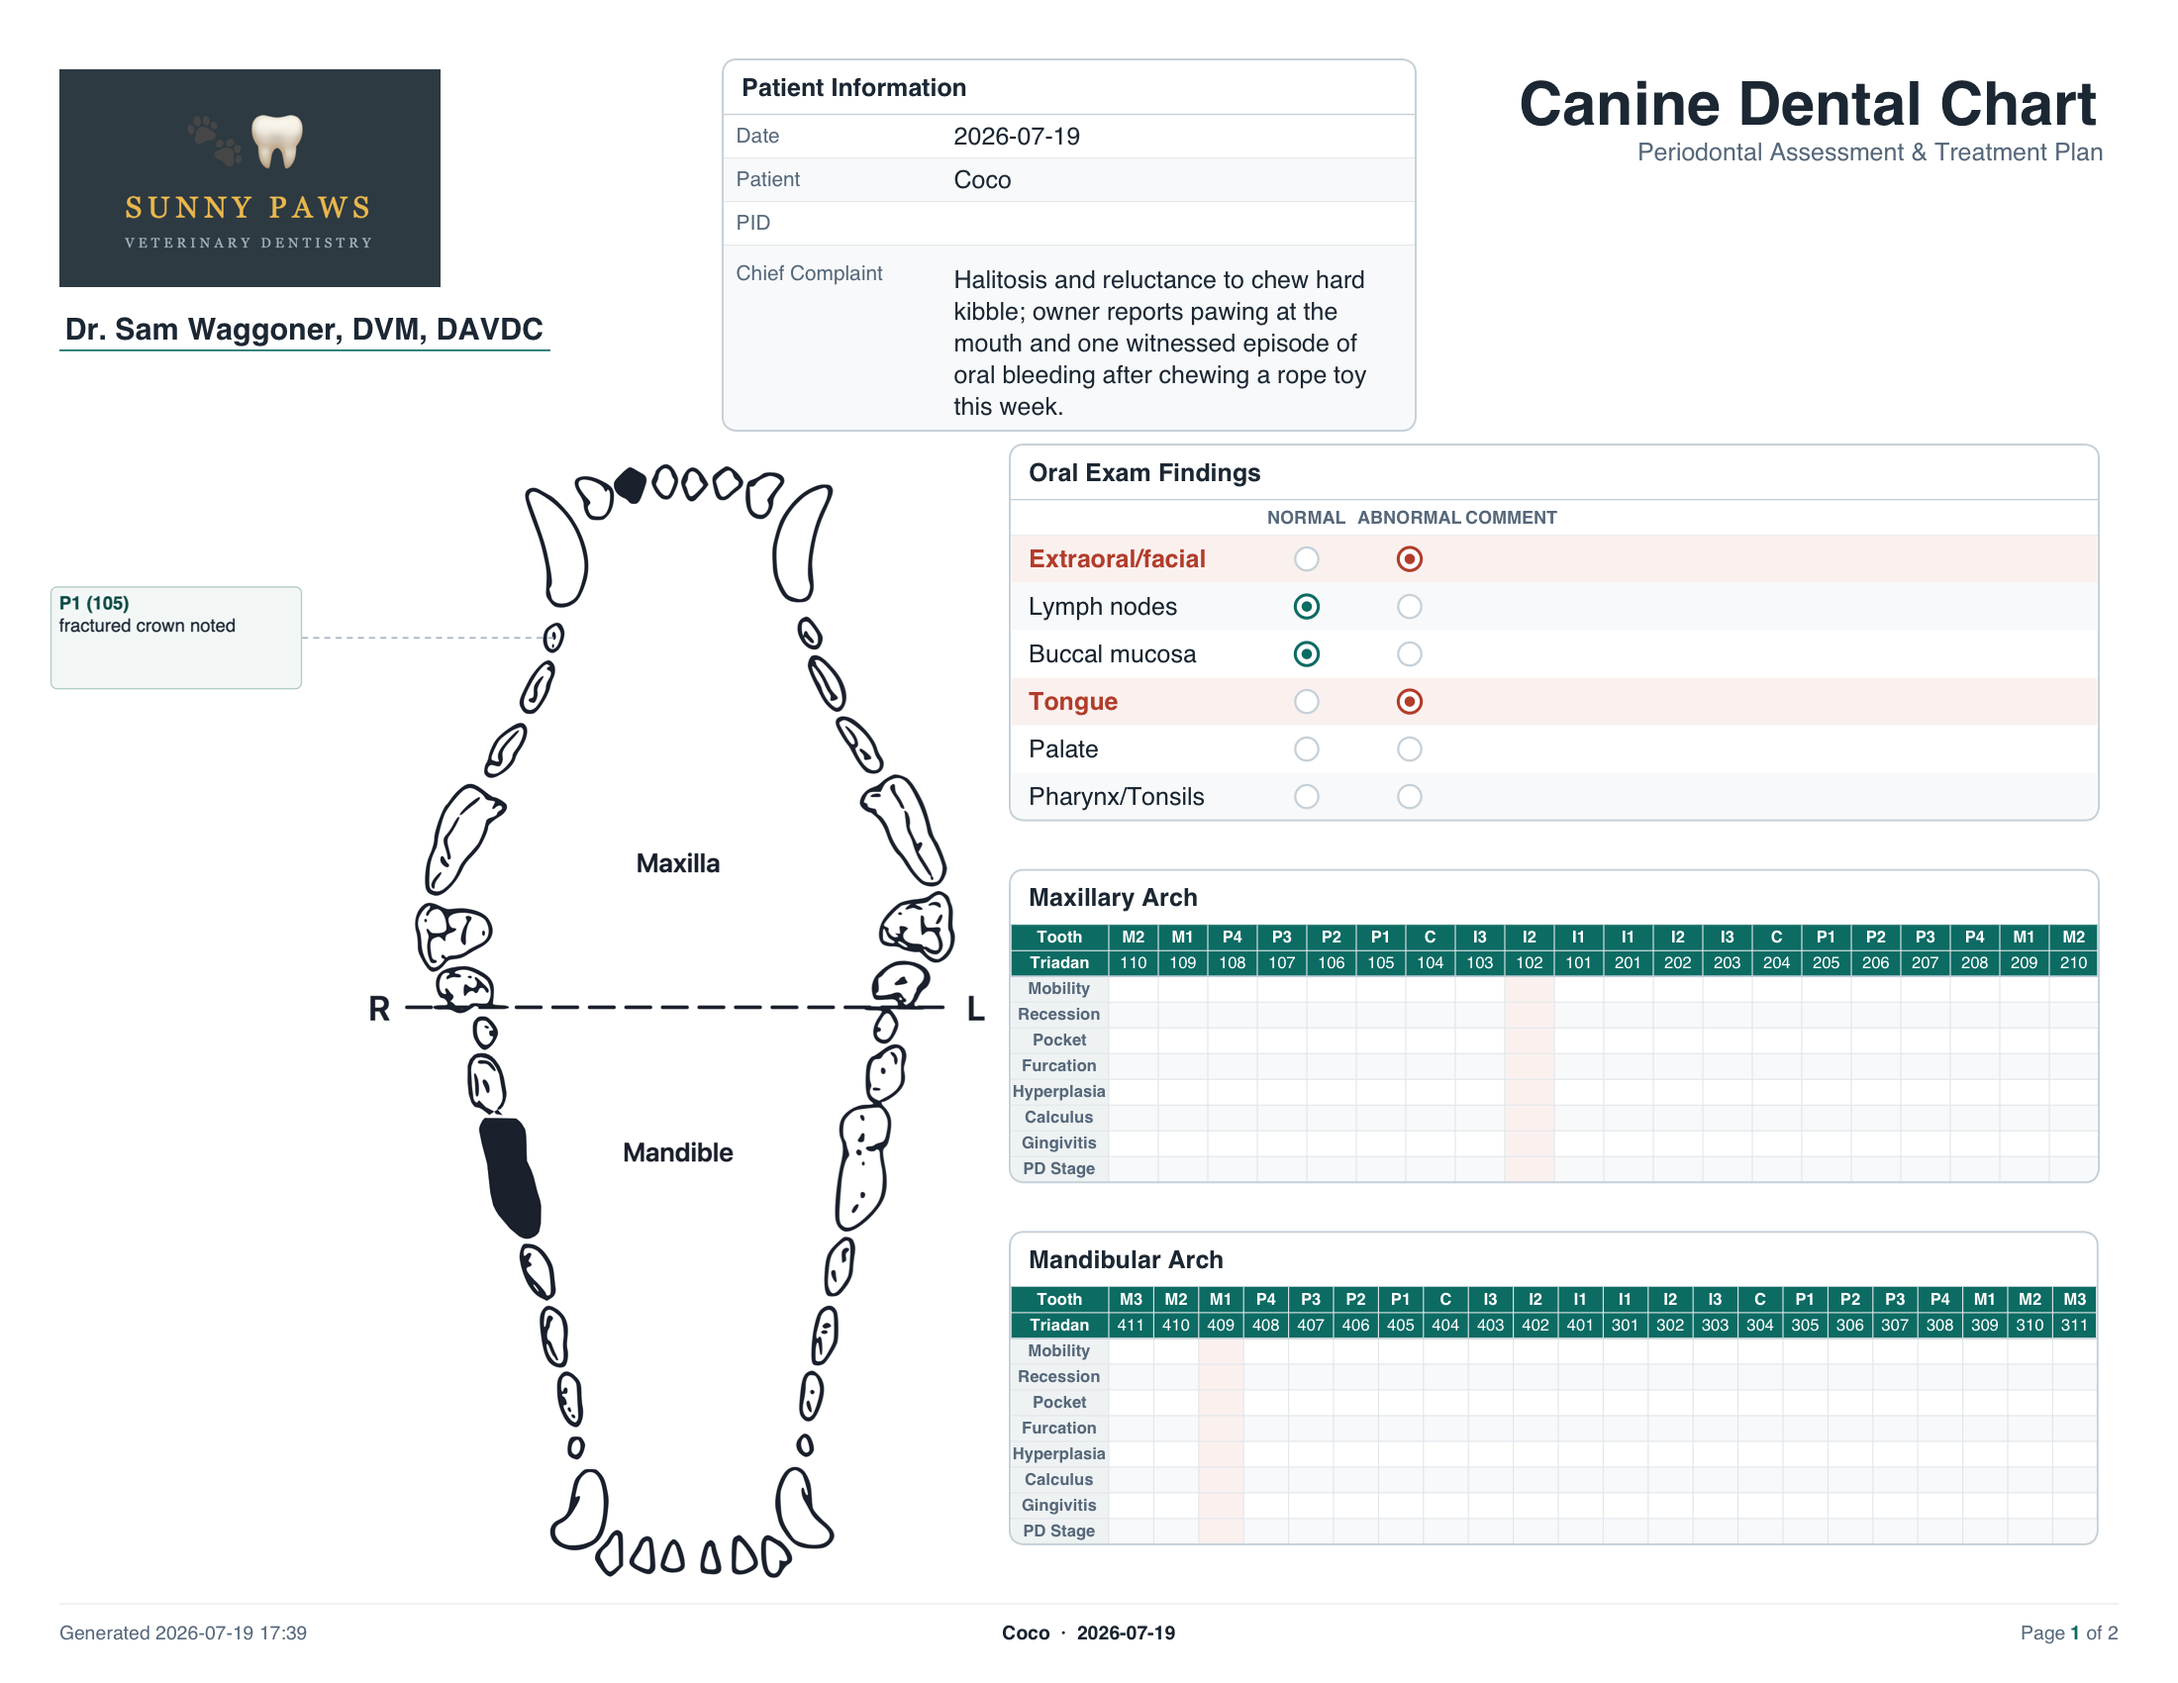
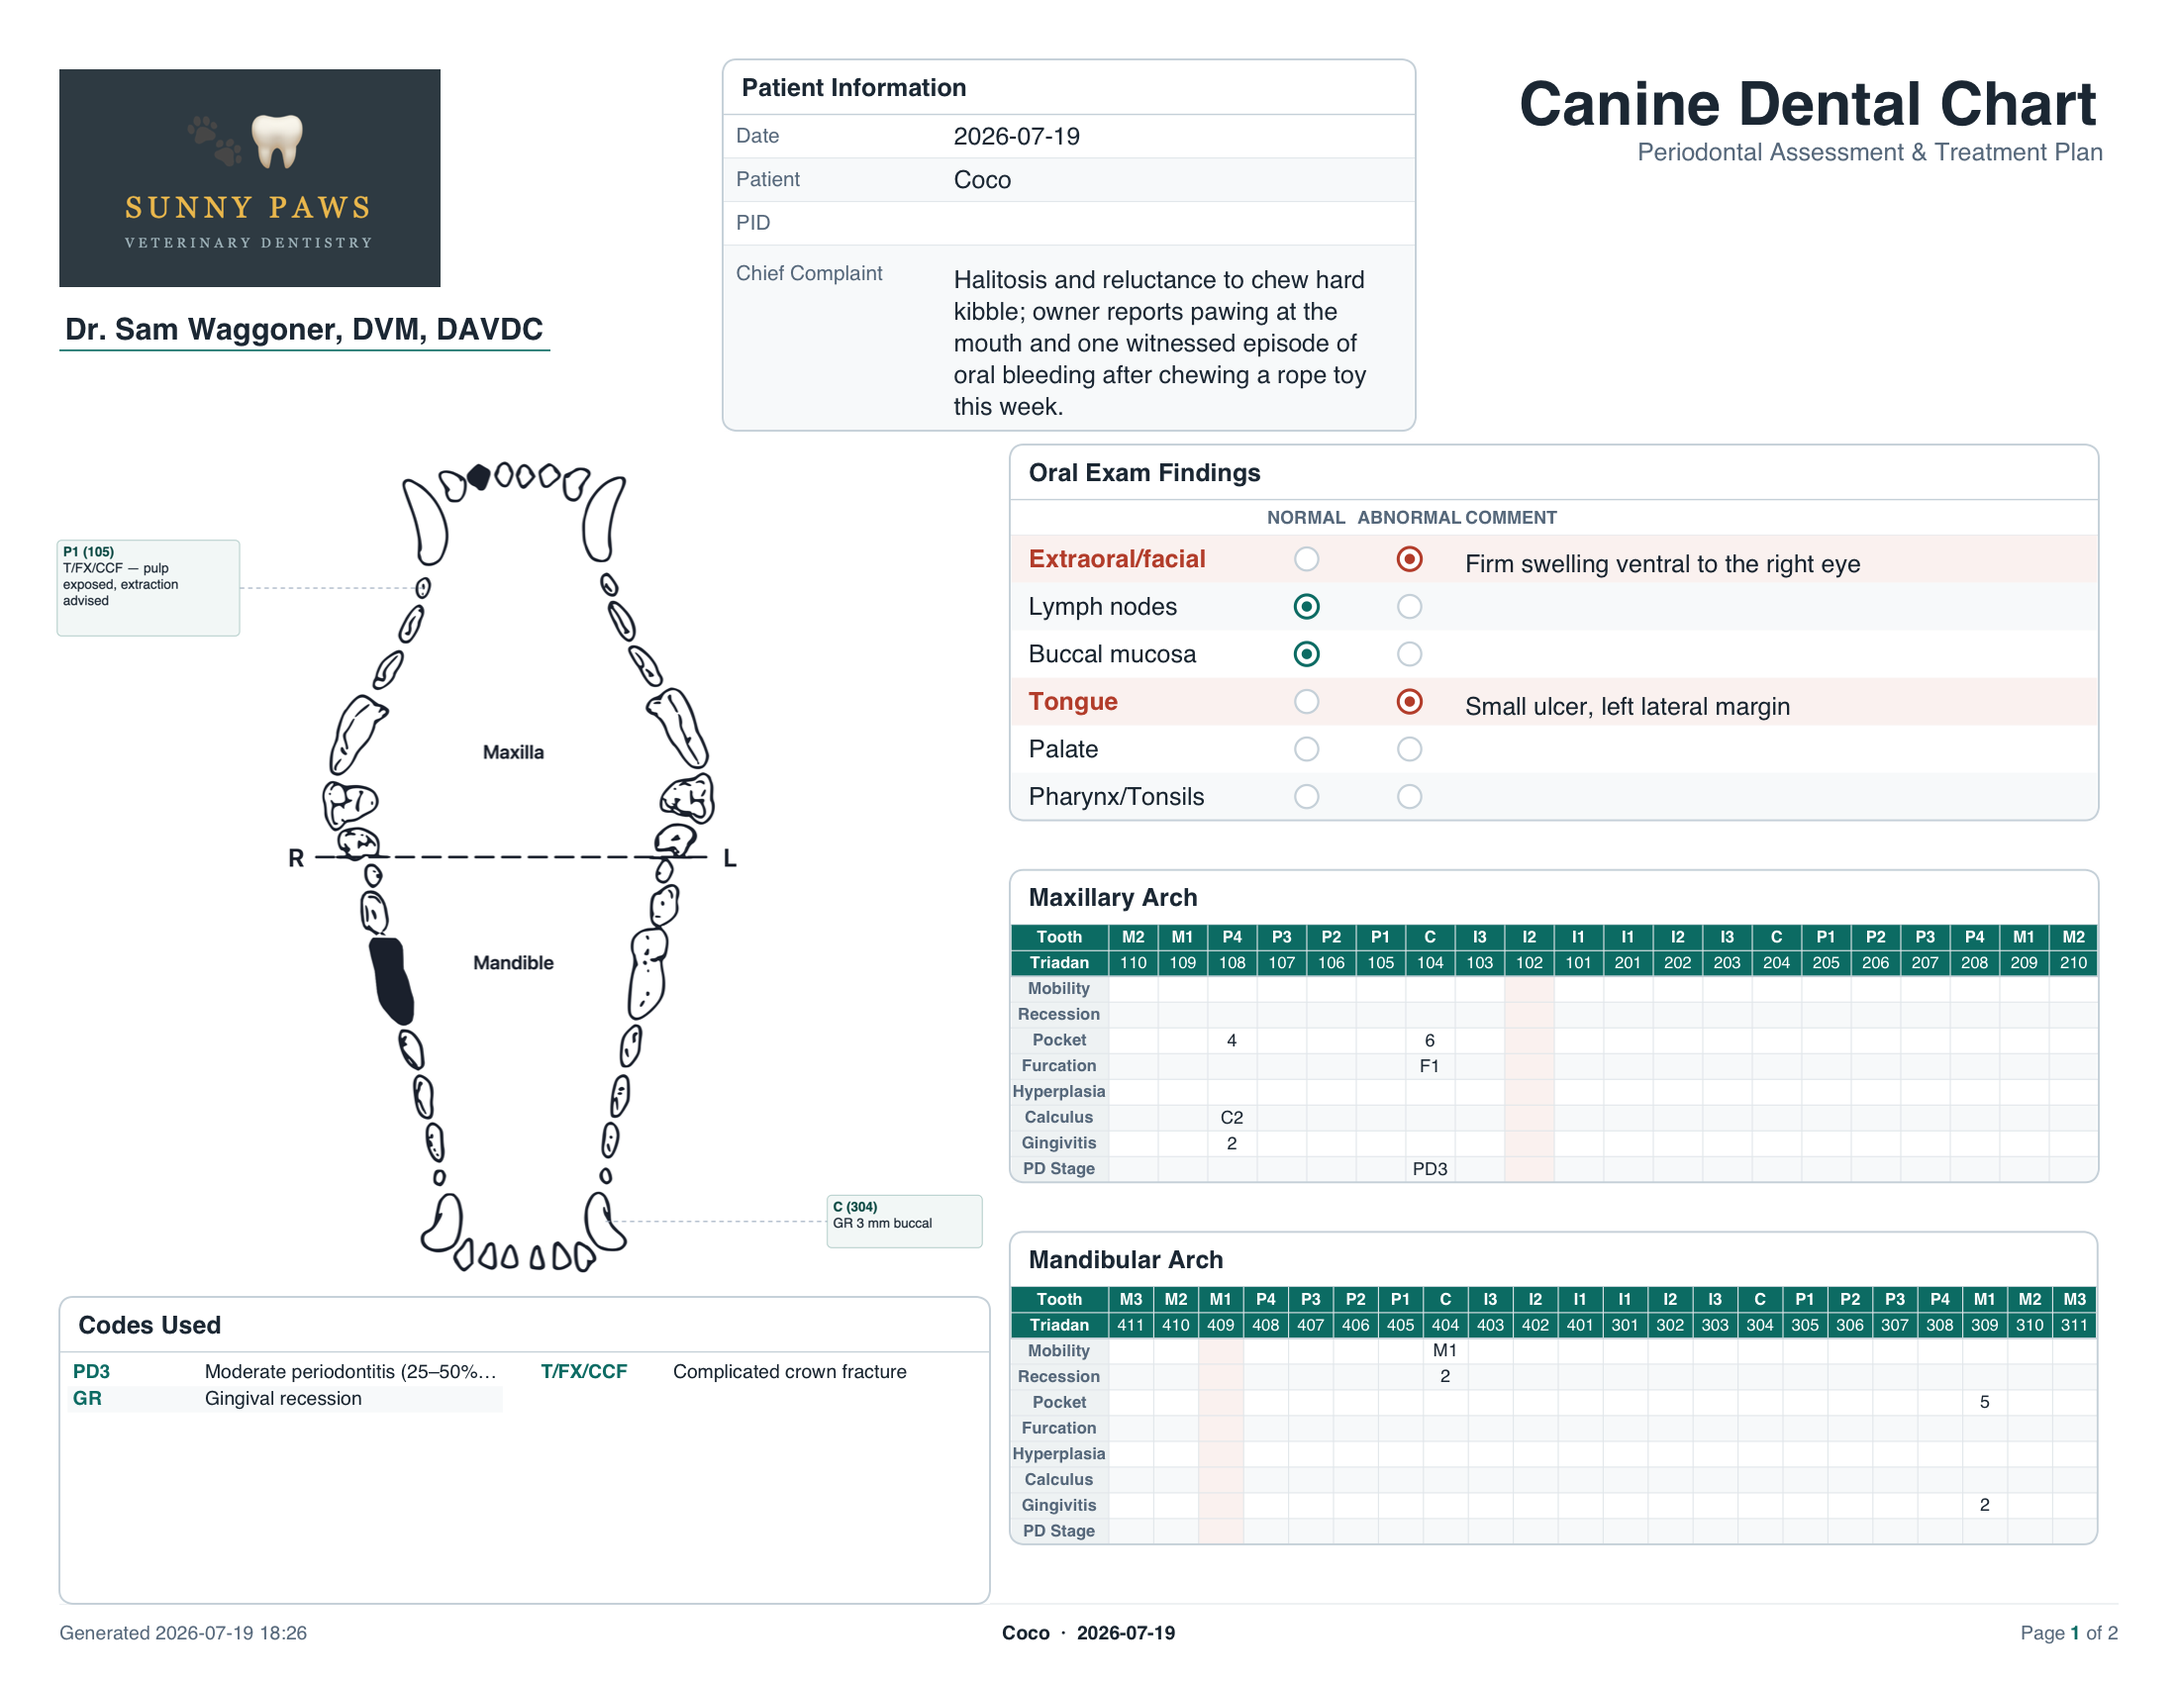
Saved-chart new-visit button, codes-rail shrink fix, recall quick-pick, richer landing chart
- Saved charts get "+ New visit" in the lock banner — carries identity
  and already-gone teeth from the patient's LATEST visit (the banner
  also shows on older ones), landing on a fresh Patient section. The
  library's + Visit shares the same extracted helper.
- Codes rail: clamp against the intended sticky anchor instead of the
  card's live rect — once the frame bottom started pushing the card up,
  measuring the live top kept the height large and let the search
  scroll under the topbar. The card now shrinks in place with the
  search pinned, and its anchor offset matches the diagram toolbar's.
- Recheck due: interval quick-pick beside the date input (1w/2w/1m/3m/
  6m/1y from the visit date) — fills the field, still hand-adjustable.
- Landing chart regenerated with a populated Codes Used legend
  (T/FX/CCF, GR, PD3 from code-bearing comments), abnormal exam
  comments, and realistic partial probing values.

diff --git a/src/EntryGrid.tsx b/src/EntryGrid.tsx
@@ -336,6 +336,29 @@ const EntryGrid: React.FC<EntryGridProps> = ({
     });
   };
 
+  // Start a fresh visit for a patient, carrying identity plus the teeth
+  // already gone (missing ∪ extracted) from their most recent saved
+  // visit. Shared by the library's "+ Visit" and the saved-chart
+  // banner's "+ New visit".
+  const startVisitFromChart = async (latestChartId: string) => {
+    const snap = await cloud.fetchChart(latestChartId);
+    const gone = new Set<number>();
+    for (const [k, v] of Object.entries(snap.preMarks ?? {})) if (v === 'missing') gone.add(Number(k));
+    for (const [k, v] of Object.entries(snap.postMarks ?? {})) if (v === 'extracted') gone.add(Number(k));
+    chart.startNewVisit({
+      identity: {
+        patientName: snap.patientInfo.patientName,
+        patientNumber: snap.patientInfo.patientNumber,
+        ownerName: snap.patientInfo.ownerName ?? '',
+        ownerPhone: snap.patientInfo.ownerPhone ?? '',
+        ownerEmail: snap.patientInfo.ownerEmail ?? '',
+        species: snap.species,
+      },
+      goneTeeth: Array.from(gone),
+    });
+    setActiveSection('patient');
+  };
+
   // ⌘S / Ctrl+S saves the chart — matches the mental model everyone
   // brings from every other document editor. Swallows the browser's
   // save-page dialog either way.
@@ -931,6 +954,21 @@ const EntryGrid: React.FC<EntryGridProps> = ({
               )}
               <button
                 type="button"
+                className="chart-menu__trigger topbar-library-btn"
+                onClick={() => {
+                  // Carry forward from the patient's LATEST visit — this
+                  // banner also shows when viewing an older one.
+                  const latest = visits[0]?.id ?? chart.cloudChartId;
+                  startVisitFromChart(latest).catch(() => {
+                    alert('Could not start a new visit — check your connection.');
+                  });
+                }}
+                title="Start a fresh dated visit for this patient — identity and already-gone teeth carry over"
+              >
+                + New visit
+              </button>
+              <button
+                type="button"
                 className="entry-grid__button entry-grid__button--topbar"
                 onClick={() => setEditUnlocked(true)}
               >
@@ -970,22 +1008,7 @@ const EntryGrid: React.FC<EntryGridProps> = ({
           onDelete={cloud.deleteChart}
           onNewVisit={async (latestChartId) => {
             try {
-              const snap = await cloud.fetchChart(latestChartId);
-              // Teeth already gone: missing (pre) ∪ extracted (post).
-              const gone = new Set<number>();
-              for (const [k, v] of Object.entries(snap.preMarks ?? {})) if (v === 'missing') gone.add(Number(k));
-              for (const [k, v] of Object.entries(snap.postMarks ?? {})) if (v === 'extracted') gone.add(Number(k));
-              chart.startNewVisit({
-                identity: {
-                  patientName: snap.patientInfo.patientName,
-                  patientNumber: snap.patientInfo.patientNumber,
-                  ownerName: snap.patientInfo.ownerName ?? '',
-                  ownerPhone: snap.patientInfo.ownerPhone ?? '',
-                  ownerEmail: snap.patientInfo.ownerEmail ?? '',
-                  species: snap.species,
-                },
-                goneTeeth: Array.from(gone),
-              });
+              await startVisitFromChart(latestChartId);
               closeLibrary();
             } catch {
               alert('Could not start a new visit — check your connection.');

diff --git a/src/components/PatientForm.tsx b/src/components/PatientForm.tsx
@@ -138,12 +138,37 @@ export const PatientForm: React.FC<PatientFormProps> = ({
 
         <label className="patient-form__label">
           Recheck due
-          <input
-            type="date"
-            className="patient-form__input"
-            value={patientInfo.recallDate ?? ''}
-            onChange={handleInputChange('recallDate')}
-          />
+          <span className="patient-form__recall">
+            <input
+              type="date"
+              className="patient-form__input"
+              value={patientInfo.recallDate ?? ''}
+              onChange={handleInputChange('recallDate')}
+            />
+            {/* Quick-pick: common recheck intervals, counted from the
+                visit date (falling back to today). Selecting one fills
+                the date field; it can still be hand-adjusted after. */}
+            <select
+              className="patient-form__input patient-form__recall-quick"
+              value=""
+              aria-label="Set the recheck date a common interval after the visit date"
+              onChange={(e) => {
+                const days = Number(e.target.value);
+                if (!days) return;
+                const base = patientInfo.date ? new Date(`${patientInfo.date}T12:00:00`) : new Date();
+                base.setDate(base.getDate() + days);
+                onPatientInfoChange('recallDate', base.toISOString().split('T')[0]);
+              }}
+            >
+              <option value="">+ interval</option>
+              <option value="7">1 week</option>
+              <option value="14">2 weeks</option>
+              <option value="30">1 month</option>
+              <option value="90">3 months</option>
+              <option value="182">6 months</option>
+              <option value="365">1 year</option>
+            </select>
+          </span>
         </label>
       </div>
 

diff --git a/src/components/CodeReferencePanel.tsx b/src/components/CodeReferencePanel.tsx
@@ -44,17 +44,24 @@ export const CodeReferencePanel: React.FC<CodeReferencePanelProps> = ({ kind }) 
     const apply = () => {
       raf = 0;
       const frameRect = frame.getBoundingClientRect();
+      const style = getComputedStyle(card);
       // Hidden section (all sections stay mounted under display:none) or
       // stacked layout: drop any inline sizing and wait — the observer
       // below re-fires when the section becomes visible.
-      if (frameRect.height === 0 || getComputedStyle(card).position !== 'sticky') {
+      if (frameRect.height === 0 || style.position !== 'sticky') {
         card.style.removeProperty('height');
         card.style.removeProperty('max-height');
         return;
       }
-      const top = card.getBoundingClientRect().top;
-      const viewportMax = window.innerHeight - top - 12;
-      const h = Math.max(0, Math.min(viewportMax, frameRect.bottom - top));
+      // Clamp against the INTENDED sticky anchor, never the card's live
+      // rect: once the frame's bottom starts pushing the card up, its
+      // live top is already above the anchor, so measuring it would keep
+      // the height large and let the search scroll under the topbar. By
+      // sizing the card to end exactly at the frame's bottom edge, the
+      // push never happens — the card shrinks in place, search pinned.
+      const anchorTop = parseFloat(style.top) || 0;
+      const viewportMax = window.innerHeight - anchorTop - 12;
+      const h = Math.max(0, Math.min(viewportMax, frameRect.bottom - anchorTop));
       card.style.height = `${h}px`;
       card.style.maxHeight = `${h}px`;
     };

diff --git a/src/components/EntryGrid.css b/src/components/EntryGrid.css
@@ -807,6 +807,24 @@
   text-decoration: none;
 }
 
+/* Recheck-due quick-pick: date input + interval dropdown side by side. */
+.patient-form__recall {
+  display: flex;
+  gap: 0.5rem;
+  align-items: stretch;
+}
+
+.patient-form__recall .patient-form__input {
+  flex: 1 1 auto;
+  min-width: 0;
+}
+
+.patient-form__recall .patient-form__recall-quick {
+  flex: 0 0 auto;
+  width: auto;
+  color: var(--text-muted, #55677a);
+}
+
 /* Owner Report section */
 .owner-report__block {
   display: block;
@@ -1319,7 +1337,9 @@
    card. The section title above it is not sticky. */
 .diagram-with-codes__codes .code-ref {
   position: sticky;
-  top: calc(var(--topbar-height, 0px) + 0.75rem);
+  /* Same anchor as the diagram's Mark/Comment/Draw toolbar so the two
+     rails pin at the same line under the topbar. */
+  top: calc(var(--topbar-height, 0px) + 0.5rem);
   flex: 0 1 auto;
   /* Full height (fills to the viewport bottom, no trailing whitespace);
      the code list scrolls inside. The frame above is extended past the
